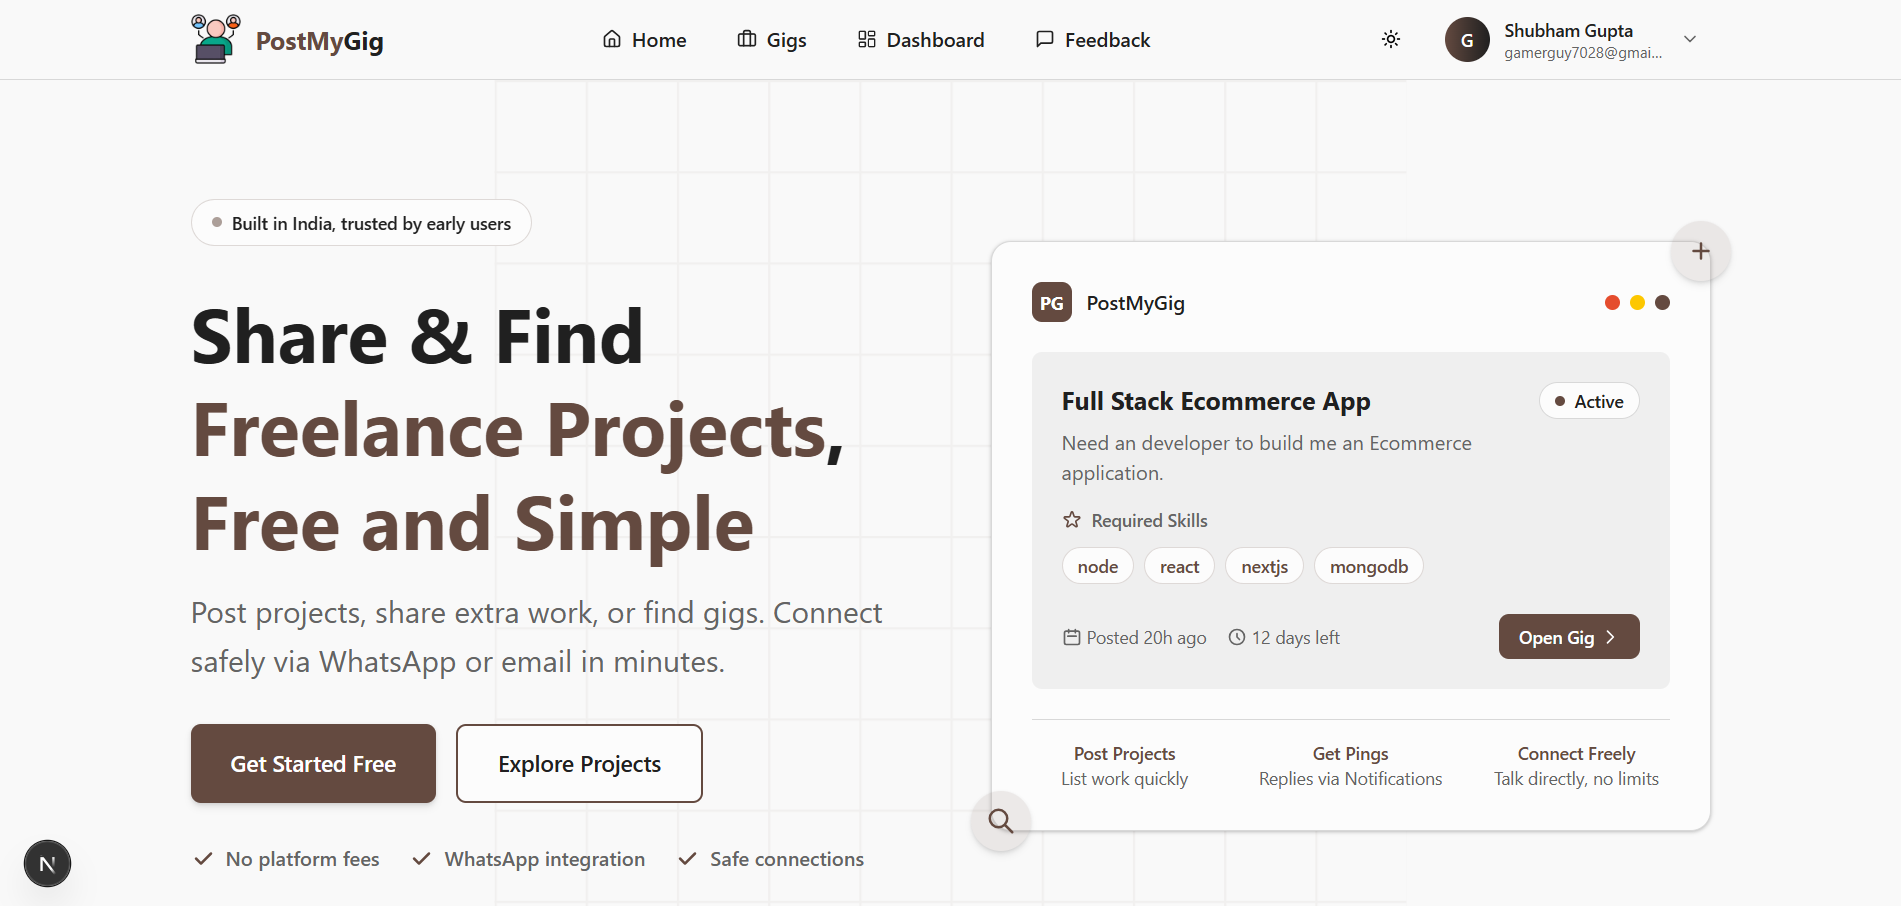
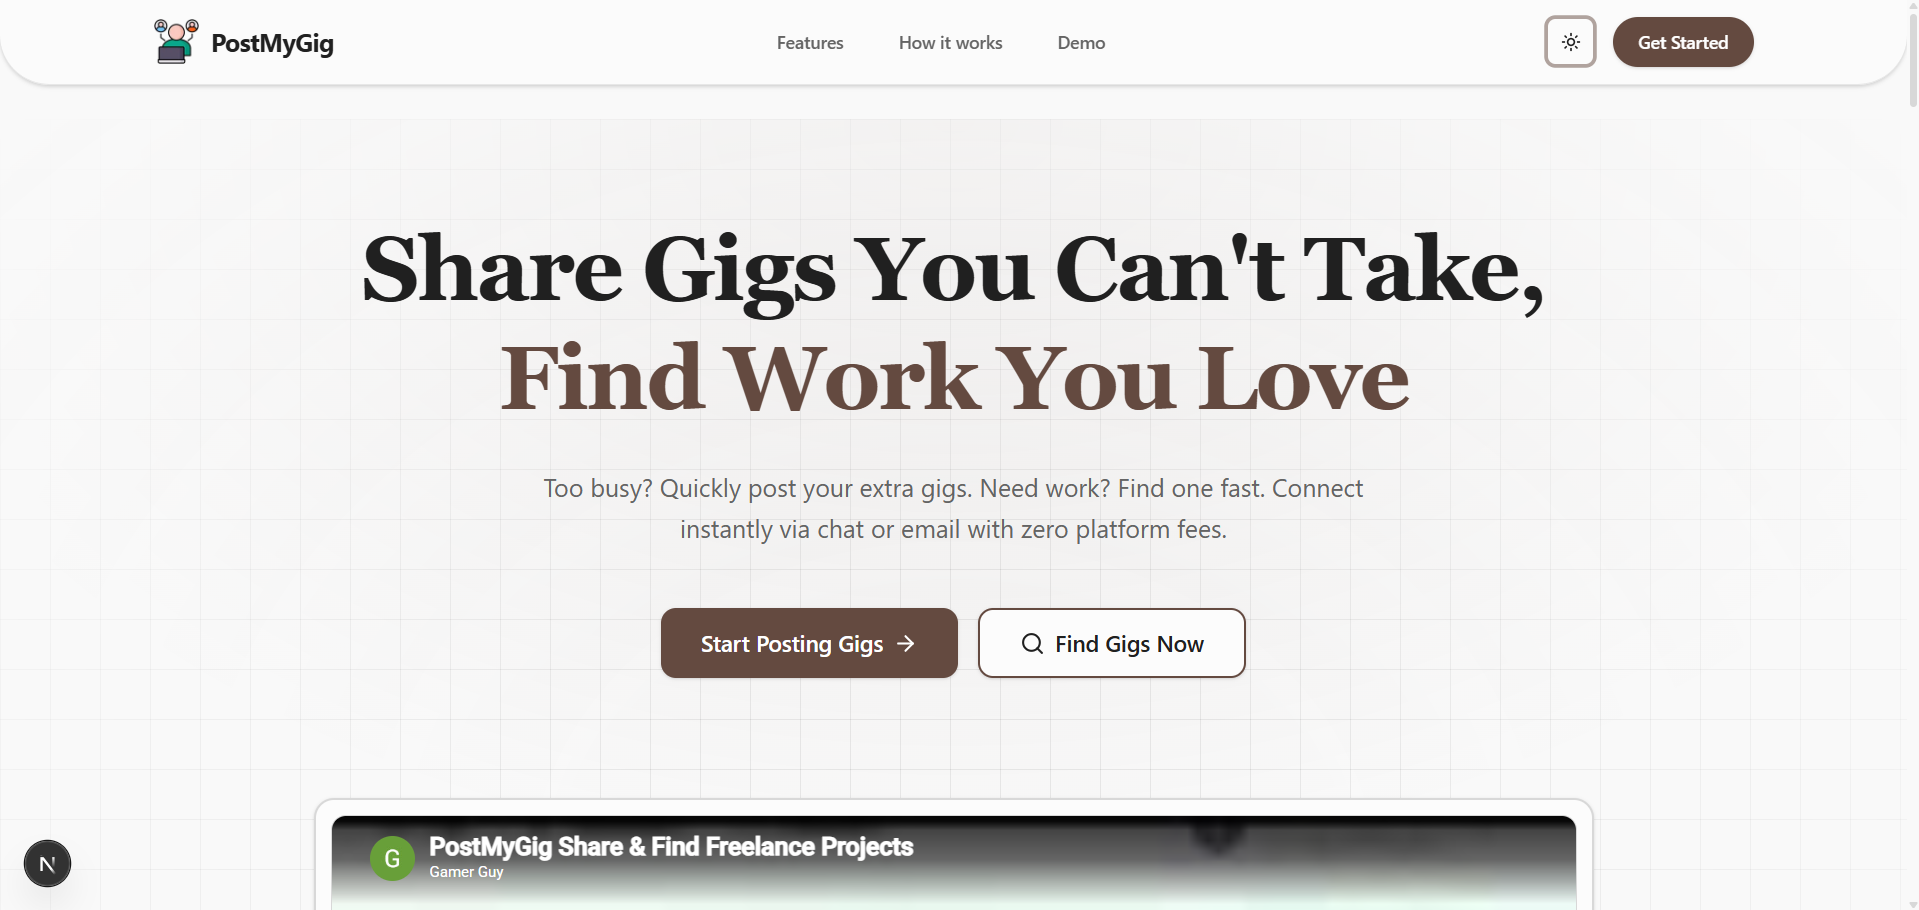
improved fixes into landing page UI

diff --git a/components/landingpage/Hero.tsx b/components/landingpage/Hero.tsx
@@ -12,17 +12,20 @@ export default function Hero() {
       id="#about"
       className="relative min-h-[85vh] flex flex-col items-center justify-center overflow-hidden bg-background py-12 sm:py-20 px-4 sm:px-6"
     >
+      {/* Ambient Top Glow */}
+      <div className="pointer-events-none absolute inset-0 bg-[radial-gradient(ellipse_60%_50%_at_50%_0%,rgba(100,74,64,0.10),transparent)] dark:bg-[radial-gradient(ellipse_60%_50%_at_50%_0%,rgba(255,224,194,0.08),transparent)]" />
+
       {/* Grid Background */}
       <div
         className={cn(
           "absolute inset-0",
           "[background-size:40px_40px]",
-          "[background-image:linear-gradient(to_right,#e4e4e7_1px,transparent_1px),linear-gradient(to_bottom,#e4e4e7_1px,transparent_1px)]",
-          "dark:[background-image:linear-gradient(to_right,#262626_1px,transparent_1px),linear-gradient(to_bottom,#262626_1px,transparent_1px)]",
+          "[background-image:linear-gradient(to_right,rgba(0,0,0,0.07)_1px,transparent_1px),linear-gradient(to_bottom,rgba(0,0,0,0.07)_1px,transparent_1px)]",
+          "dark:[background-image:linear-gradient(to_right,rgba(255,255,255,0.07)_1px,transparent_1px),linear-gradient(to_bottom,rgba(255,255,255,0.07)_1px,transparent_1px)]",
         )}
       />
-      {/* Radial gradient for the container to give a faded look */}
-      <div className="pointer-events-none absolute inset-0 flex items-center justify-center bg-background [mask-image:radial-gradient(ellipse_at_center,transparent_20%,black)]"></div>
+      {/* Radial gradient mask to fade grid edges */}
+      <div className="pointer-events-none absolute inset-0 flex items-center justify-center bg-background [mask-image:radial-gradient(ellipse_at_center,transparent_25%,black)]"></div>
 
       <div className="relative z-10 w-full max-w-6xl mx-auto space-y-12 sm:space-y-16">
 

diff --git a/app/globals.css b/app/globals.css
@@ -172,11 +172,39 @@
   }
 }
 
+html {
+  scrollbar-gutter: stable;
+}
+
 body {
   letter-spacing: var(--tracking-normal);
 }
 
+/* Modern Minimalist Scrollbar */
+::-webkit-scrollbar {
+  width: 8px;
+  height: 8px;
+}
+
+::-webkit-scrollbar-track {
+  background: transparent;
+}
+
+::-webkit-scrollbar-thumb {
+  background: rgba(140, 140, 140, 0.3);
+  border-radius: 9999px;
+  border: 2px solid transparent;
+  background-clip: padding-box;
+}
+
+::-webkit-scrollbar-thumb:hover {
+  background: rgba(140, 140, 140, 0.55);
+  background-clip: padding-box;
+}
+
 * {
+  scrollbar-width: thin;
+  scrollbar-color: rgba(140, 140, 140, 0.3) transparent;
   transition: background-color 0.3s ease, color 0.3s ease, border-color 0.3s ease;
 }
 

diff --git a/components/DarkModeToggle.tsx b/components/DarkModeToggle.tsx
@@ -55,7 +55,7 @@ export function DarkModeToggle() {
   }
 
   return (
-    <DropdownMenu>
+    <DropdownMenu modal={false}>
       <DropdownMenuTrigger asChild>
         <Button 
           variant="ghost" 
